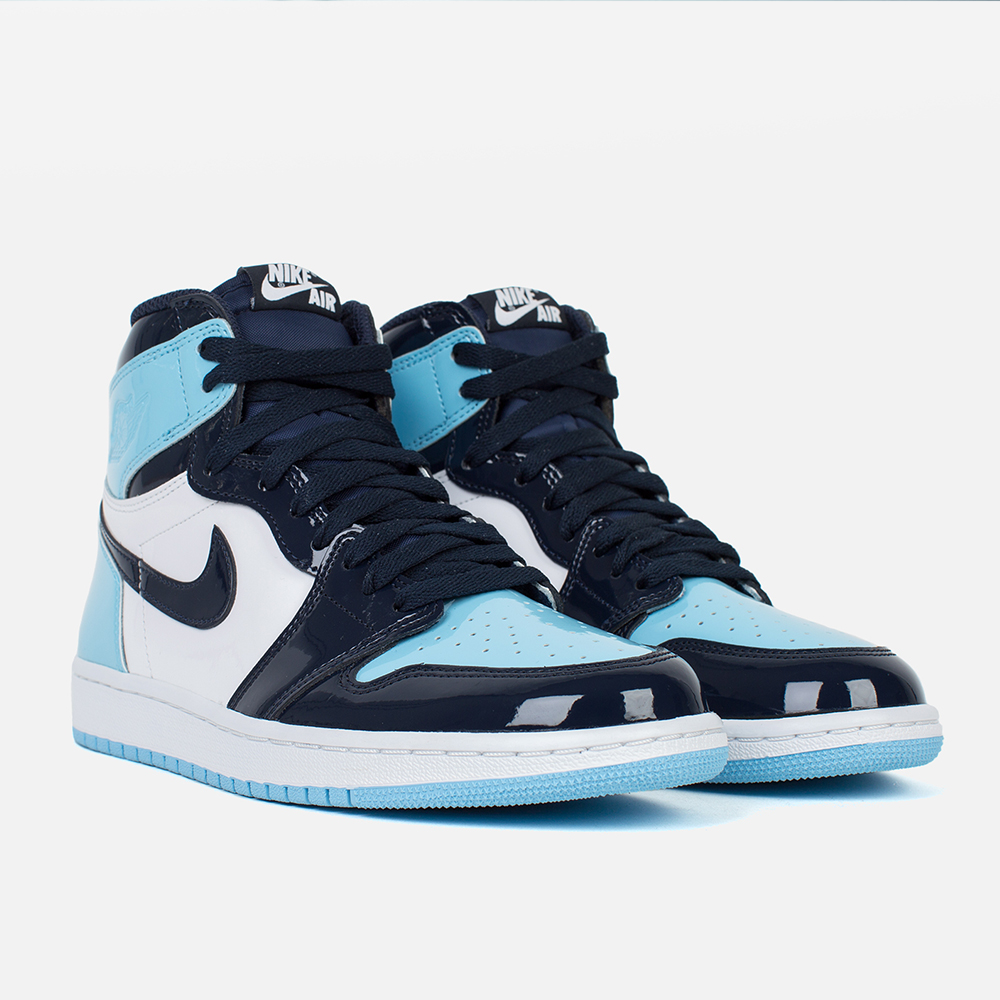
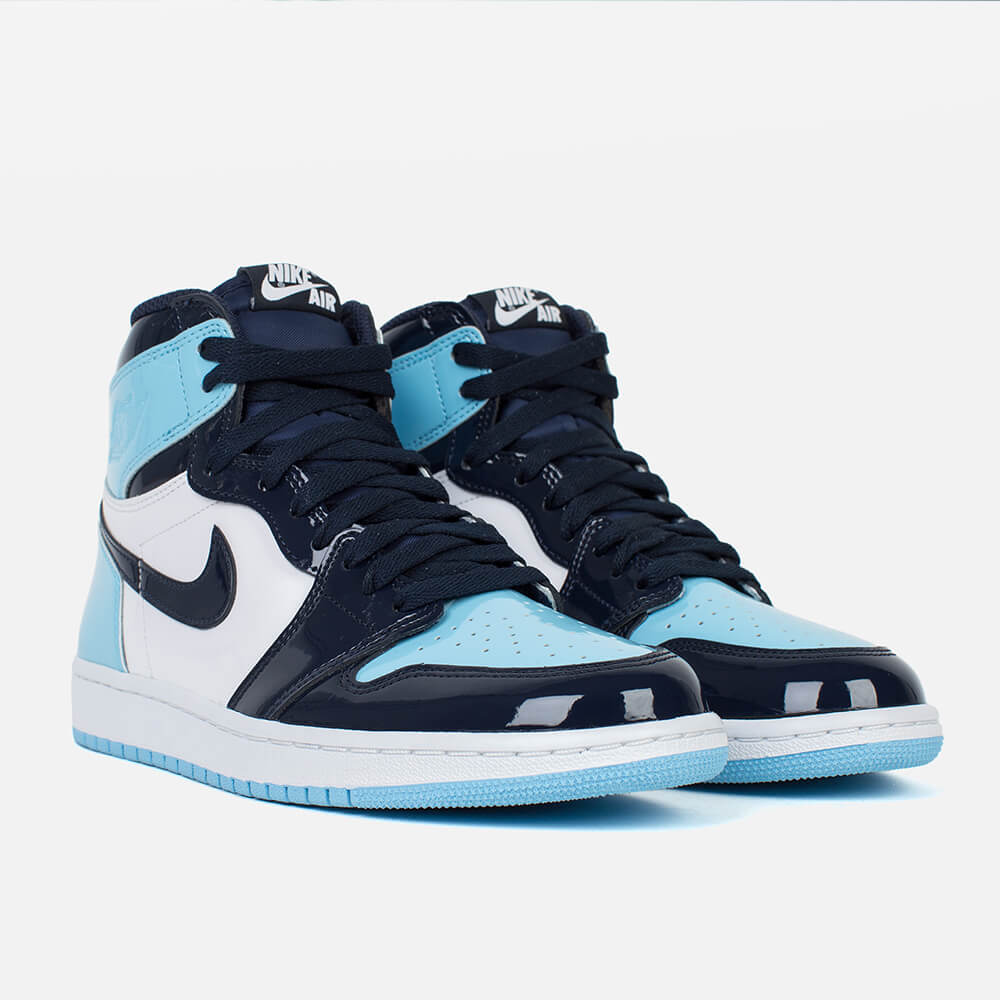
Fix: Optimized Images

diff --git a/index.html b/index.html
@@ -23,7 +23,7 @@
       </div>
     </header>
     <div class="container">
-      <img src="./imagens/jordan-shop.png" alt="Jordan Shop" />
+      <img src="./imagens/jordan-shop.jpg" alt="Jordan Shop" />
       <div class="sobre">
         <h2 id="sobre">Sobre a loja</h2>
         <p>
